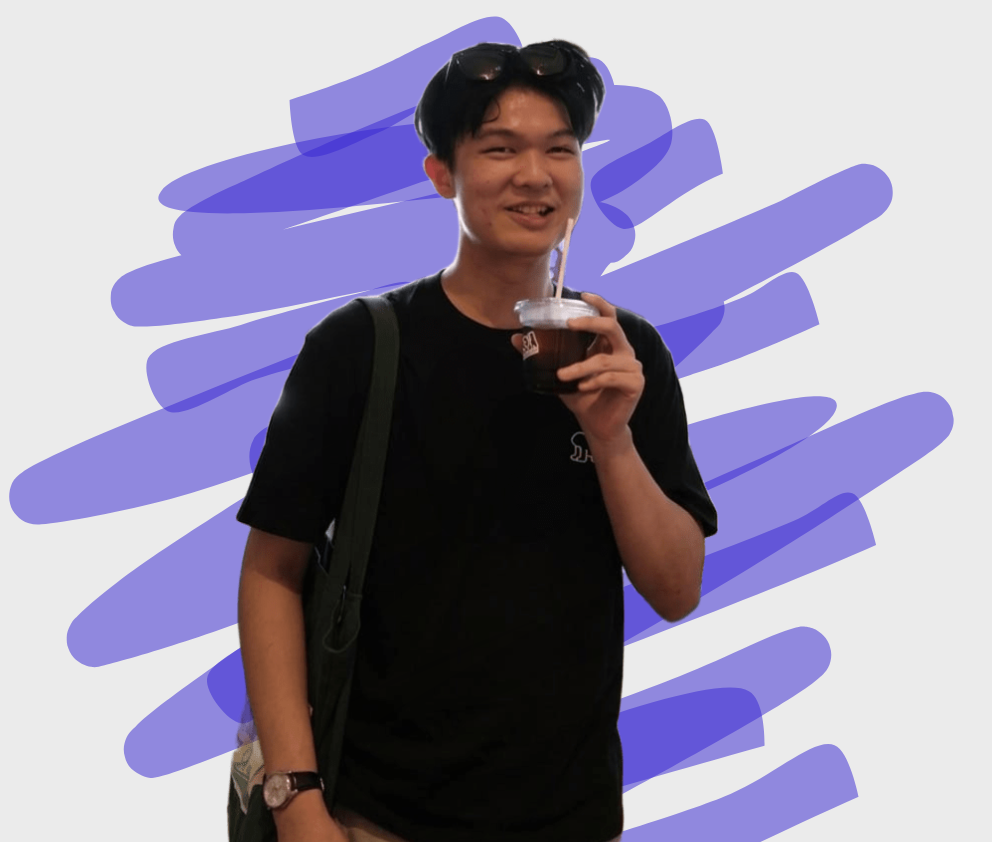
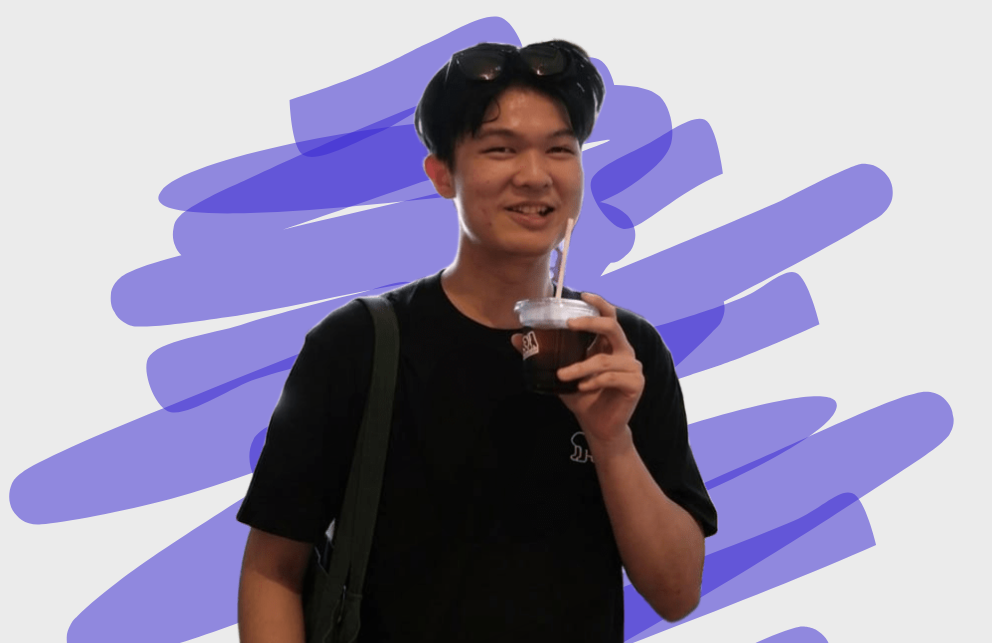
bugfix 3

diff --git a/styles/styles.css b/styles/styles.css
@@ -47,14 +47,8 @@ nav.scrolled {
 }
 
 @keyframes slideDown {
-    from {
-        transform: translateY(-100%);
-        opacity: 0;
-    }
-    to {
-        transform: translateY(0);
-        opacity: 1;
-    }
+    from { transform: translate(-50%, -100%); opacity: 0; }
+    to { transform: translate(-50%, 0); opacity: 1; }
 }
 
 /*.logo {
@@ -127,7 +121,7 @@ nav ul li a:hover span {
 .hero {
     background: var(--color-bg-secondary);
     min-height: 100vh;
-    padding: 8rem 4rem 3rem;
+    padding: 4rem 4rem;
     display: grid;
     grid-template-columns: 1fr 1fr;
     grid-template-rows: auto 1fr auto;
@@ -152,10 +146,11 @@ nav ul li a:hover span {
 }
 
 .hero-tagline {
-    grid-column: 2;
-    grid-row: 1;
-    justify-self: end;
-    text-align: right;
+    grid-column: 1;
+    grid-row: 3;
+    justify-self: start;
+    align-self: end;
+    text-align: left;
     max-width: 280px;
     color: var(--color-secondary);
     font-size: 1rem;
@@ -185,9 +180,11 @@ nav ul li a:hover span {
 }
 
 .hero-footer-left {
-    grid-column: 1;
-    grid-row: 3;
-    align-self: end;
+    grid-column: 2;
+    grid-row: 1;
+    justify-self: end;
+    align-self: start;
+    text-align: right;
 }
 
 .hero-email {
